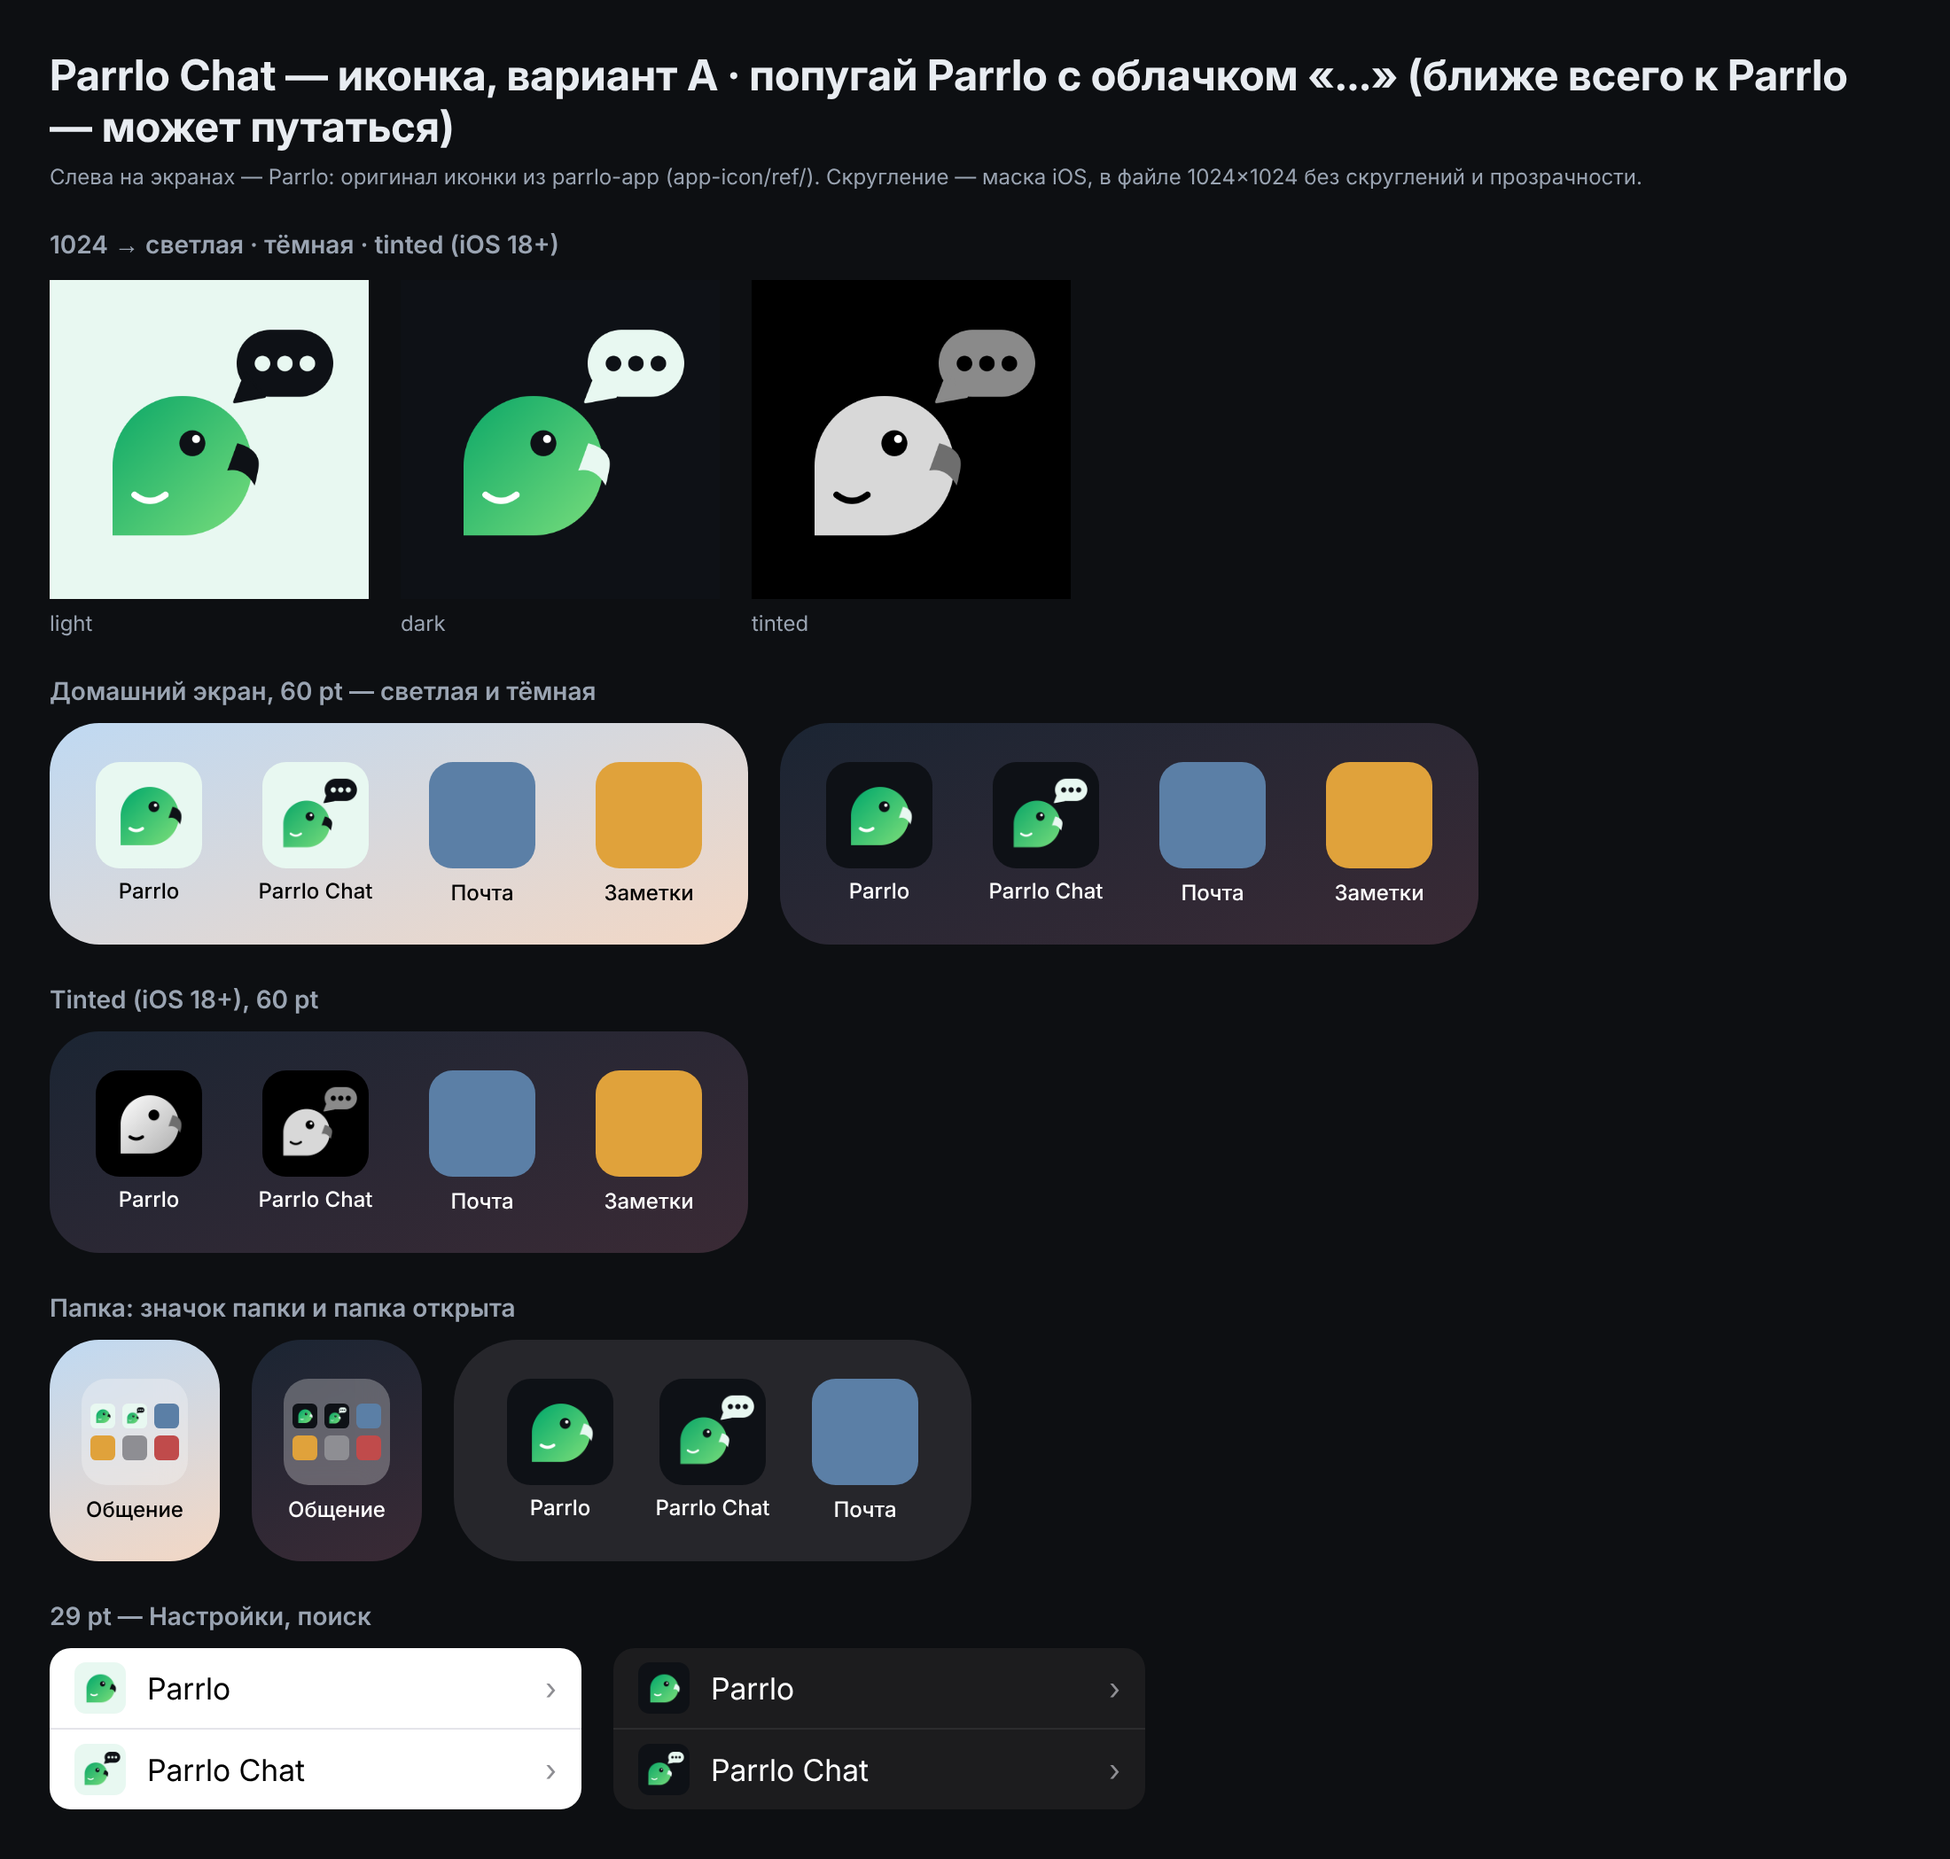
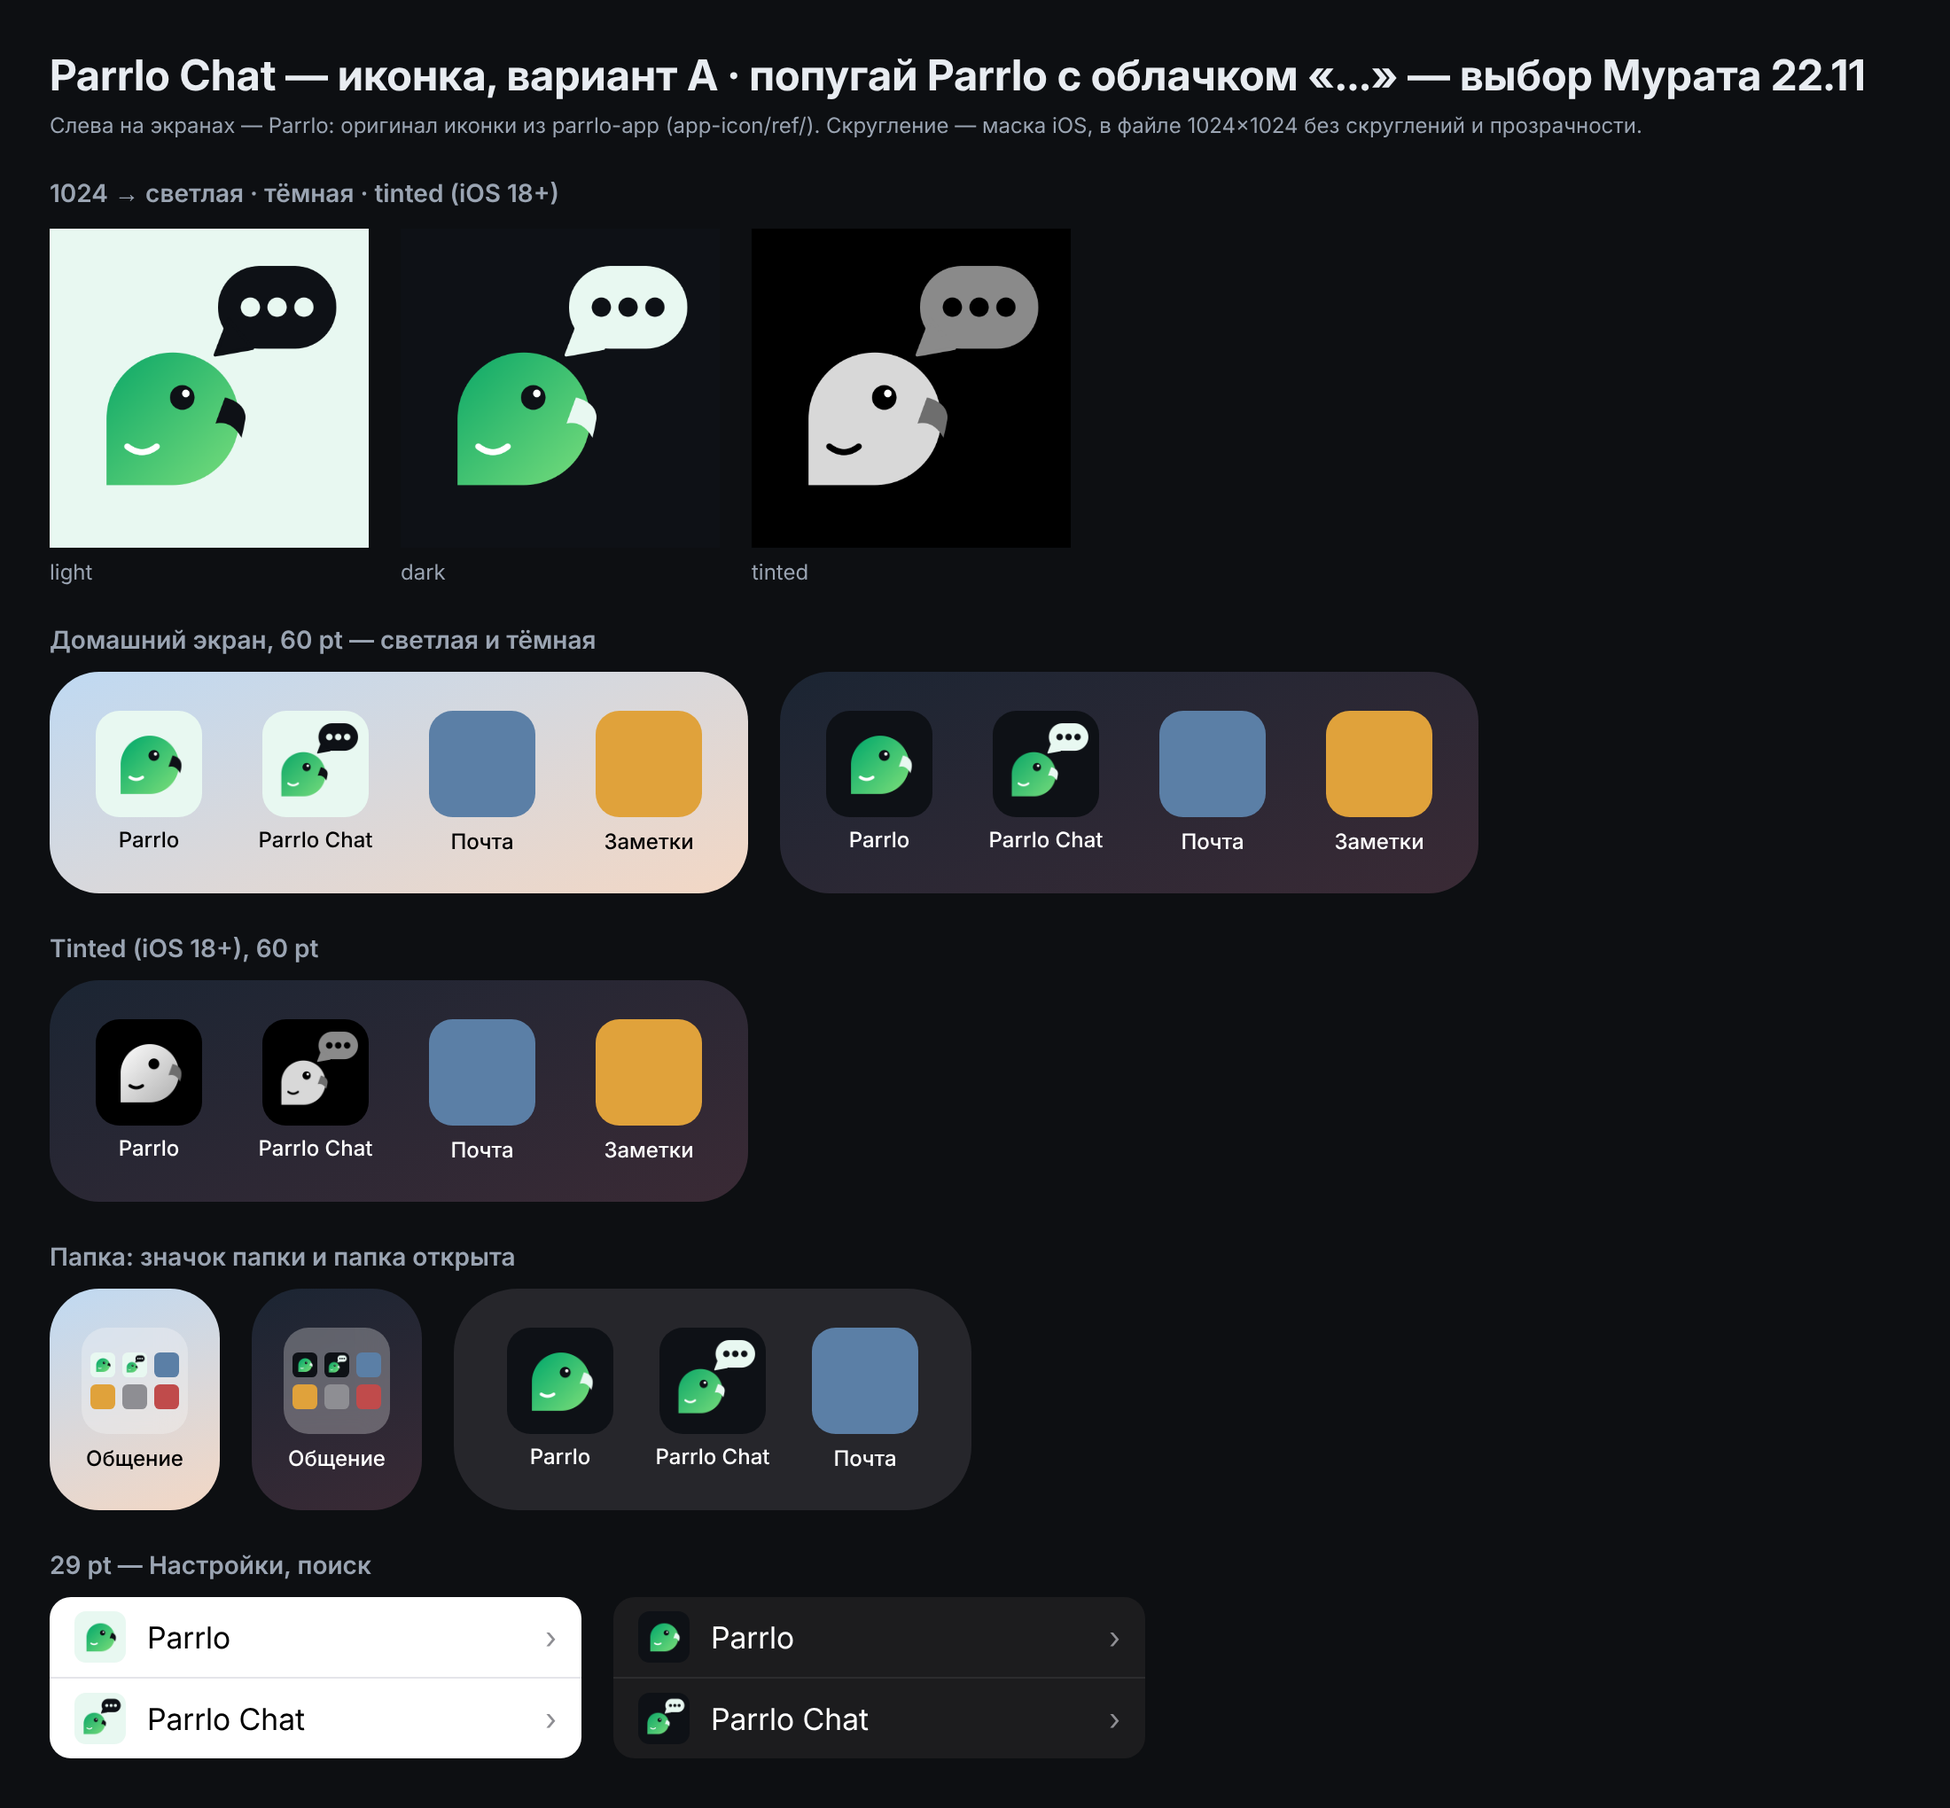
Иконка Chat: финал — вариант A (выбор Мурата 22.11), облачко крупнее; PNG без альфа-канала
Claude-Session: https://claude.ai/code/session_01XzoWkW25V1nW2Qv4cEPq3n

Changed region(s): [[0.0, 0.0309, 0.9582, 0.9574], [0.3709, 0.1235, 0.5564, 0.3397], [0.34, 0.8956, 0.4327, 0.9574]]

diff --git a/app-icon/tools/build.js b/app-icon/tools/build.js
@@ -34,13 +34,14 @@ const svg = (bg, inner) => `<svg xmlns="http://www.w3.org/2000/svg" width="1024"
 const P = { body: 'grad', eye: INK, beak: INK, smile: W };
 const PD = { body: 'grad', eye: INK, beak: MINT, smile: W };            // как тёмная иконка Parrlo
 const PT = { body: '#D8D8D8', eye: '#000', beak: '#6E6E6E', smile: '#000' }; // tinted — оттенки серого
-const TA = 'translate(10 180) scale(0.8)';
+const TA = 'translate(0 215) scale(0.76)';
+const BA = [540, 120, 380, 265, 132], DA = [730, 252, 86, 31]; // облачко A крупнее — чтобы отличалось от Parrlo в 29 pt и в папке
 // A — как Parrlo (мятный фон) + тёмное облачко «…» сверху справа. Ближе всего к Parrlo — почти его копия.
 const A = {
-  name: 'A · попугай Parrlo с облачком «…» (ближе всего к Parrlo — может путаться)',
-  light: svg(MINT, parrot(P, TA) + bubble(600, 160, 310, 215, 108, INK, 'l') + dots(755, 268, 72, 25, MINT)),
-  dark: svg(INK, parrot(PD, TA) + bubble(600, 160, 310, 215, 108, MINT, 'l') + dots(755, 268, 72, 25, INK)),
-  tinted: svg('#000', parrot(PT, TA) + bubble(600, 160, 310, 215, 108, '#8A8A8A', 'l') + dots(755, 268, 72, 25, '#000')),
+  name: 'A · попугай Parrlo с облачком «…» — выбор Мурата 22.11',
+  light: svg(MINT, parrot(P, TA) + bubble(...BA, INK, 'l') + dots(...DA, MINT)),
+  dark: svg(INK, parrot(PD, TA) + bubble(...BA, MINT, 'l') + dots(...DA, INK)),
+  tinted: svg('#000', parrot(PT, TA) + bubble(...BA, '#8A8A8A', 'l') + dots(...DA, '#000')),
 };
 // B — фон мессенджера #12161C во всех режимах, попугай Parrlo и зелёное облачко «…»
 const B = {

diff --git a/app-icon/README.md b/app-icon/README.md
@@ -1,4 +1,6 @@
-# Parrlo Chat — иконка приложения (3 варианта на выбор)
+# Parrlo Chat — иконка приложения
+
+**Выбор Мурата 22.11.2026 — вариант A** (мятный фон, попугай Parrlo, тёмное облачко «…»). Финальные файлы для AppIcon-Messenger: `png/A-light.png`, `png/A-dark.png`, `png/A-tinted.png` — 1024×1024, RGB без прозрачности и скруглений. Облачко «…» увеличено, чтобы отличать от Parrlo в 29 pt и в папке (см. `png/_sheet-A.png`). B и C оставлены для истории.
 
 Попугай — как в иконке Parrlo (Translate): голова-облачко, глаз с бликом, клюв, улыбка. Оригиналы Parrlo — `ref/translate-AppIcon-1024{,-dark,-tinted}.png` (из parrlo-app). Палитра брендбука v2: #00875C, #2BC48A, #12161C, белый.
 Файлы 1024×1024, без прозрачности и скруглений (маску накладывает iOS). Для каждого варианта: светлая, тёмная, tinted (iOS 18+).
